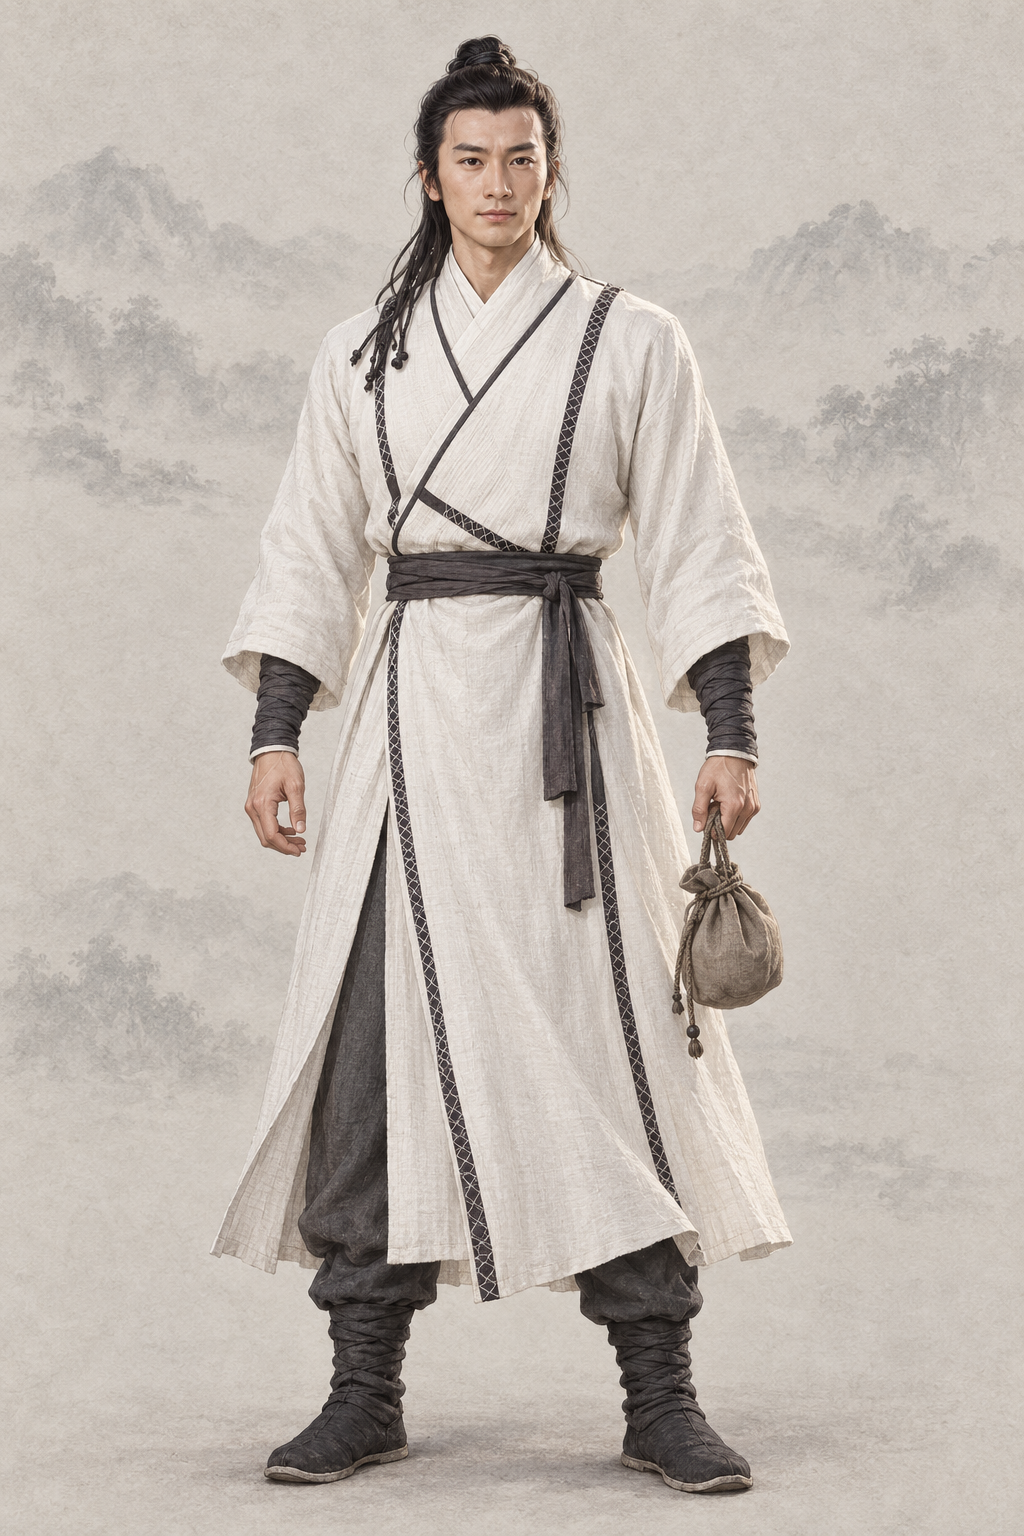
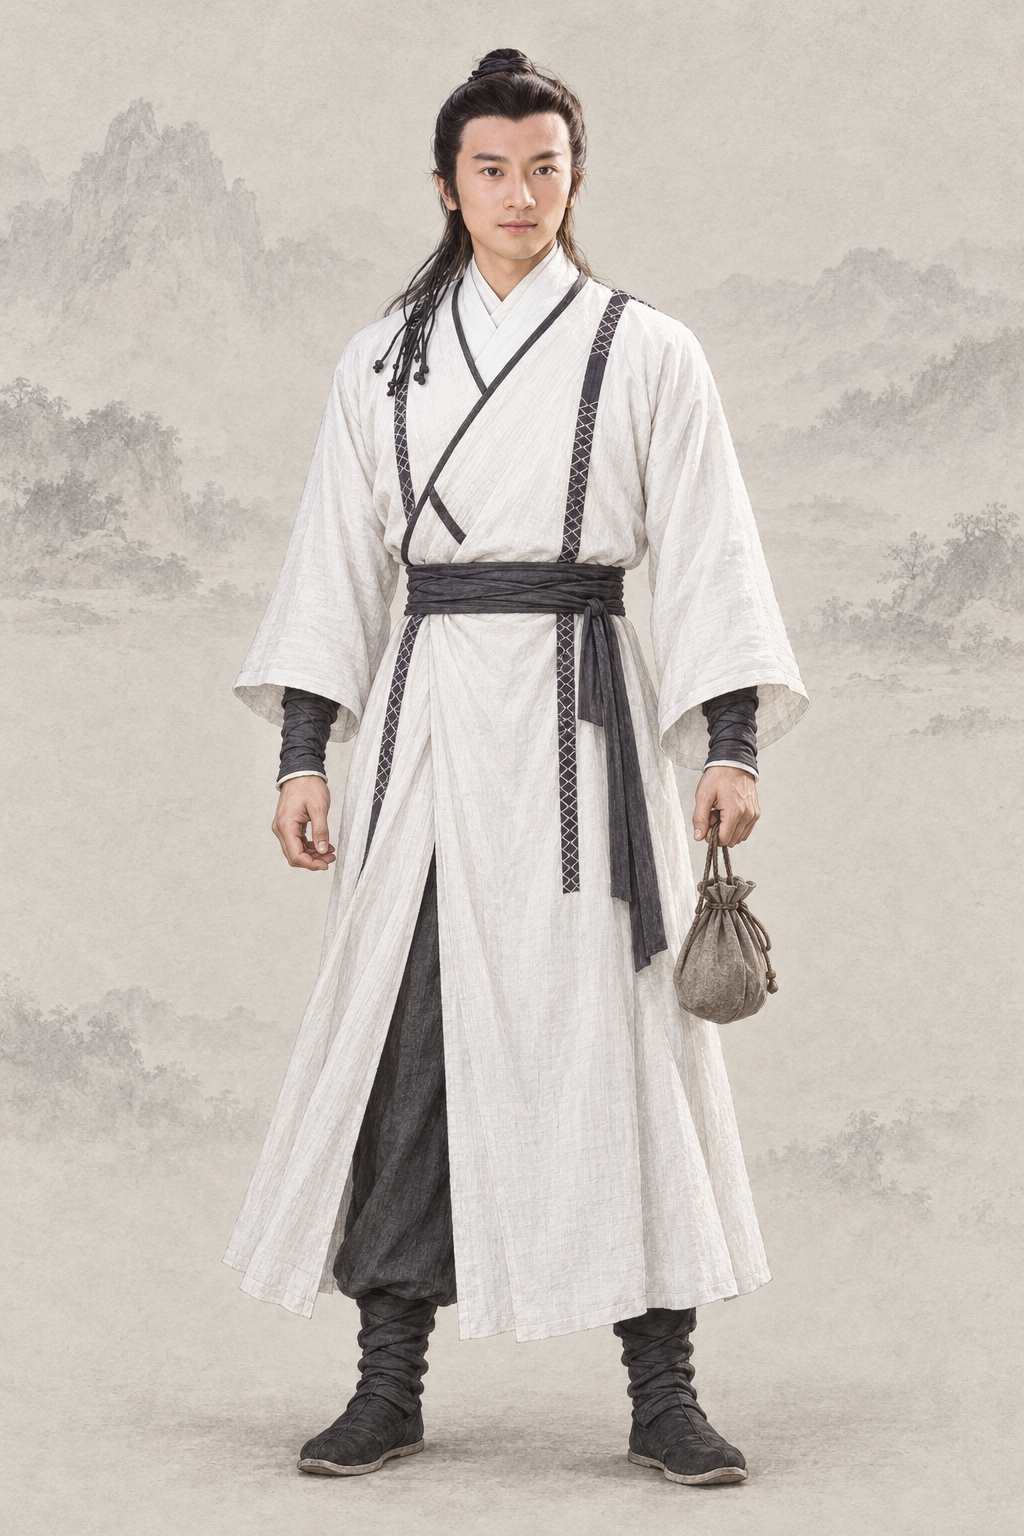
assets(character): 张无忌 base 换作者选定的第 2 轮 A 版（AR-44 / AR-49）
作者 13:24「张无忌现在有点丑，更像苏有朋一些，但保持魁梧」，第 2 轮加剧照脸部特写，脸改为清秀俊朗的鹅蛋脸、双眼皮大眼，宽肩厚背的身形保留；作者 13:47 选 A。第 1 轮图备份在 codex_w17/replaced/，提示词写回 npc_zhangwuji.md，第 1 轮段留作历史。

diff --git a/assets/default/prompts/characters/ch04-yitian/npc_zhangwuji.md b/assets/default/prompts/characters/ch04-yitian/npc_zhangwuji.md
@@ -14,6 +14,9 @@ references:
 - path: .agents/coord/imagegen-reference/identity-20261002/yitian/zhangwuji_2003_suyoupeng_tvsou.jpg
   use: 身份参考：2003《倚天屠龙记》 剧照（作者 10-03 指定版本）；只借造型、气质与五官神韵，按项目画风重画，不照搬照片
   sha256: 826ee499517df053dd5edc5b5b2519f8c74f67930ccf9e01b987df631c106636
+- path: .agents/coord/_handoff/gem/codex_w17/staging/stillface__zhangwuji.jpg
+  use: 剧照脸部特写：由上面这张剧照裁出放大（512×512），只为看清五官；同样只借神韵，按项目画风重画
+  sha256: e2719d7d920077c8c537fe246feda90e9df77104dc6d32d3d3b16c03f0e14b97
 - path: assets/default/baseline/character/male/ref_npc_linghuchong__ch05_base01.png
   use: 画风基线：项目同性别基线立绘，只取画风、用色、光线、质感和背景处理，不取长相（上传缩小版 JPEG）
   sha256: 3523d4d935ad8bb13db359ce72e73bc211ebdb3af5cb2a9806db346dca6df202
@@ -23,6 +26,7 @@ references:
 redo_reason: "作者 10-03 AR-44：参考2003《倚天屠龙记》造型重画 base，不要和照片一样"
 reference_upload:
 - /Users/bytedance/Projects/jinyongqunxia/.agents/wt/_prod/.agents/coord/_handoff/gem/codex_w17/staging/still__por_npc_zhangwuji__ch04_youth_jiaozhu_base__1.jpg
+- /Users/bytedance/Projects/jinyongqunxia/.agents/wt/_prod/.agents/coord/_handoff/gem/codex_w17/staging/stillface__zhangwuji.jpg
 - /Users/bytedance/Projects/jinyongqunxia/.agents/wt/_prod/.agents/coord/_handoff/gem/baseline_small/male__ref_npc_linghuchong__ch05_base01.jpg
 - /Users/bytedance/Projects/jinyongqunxia/.agents/wt/_prod/.agents/coord/_handoff/gem/baseline_small/male__ref_npc_xiaofeng__ch01_base01.jpg
 codex_prompt_rev: 2026-10-03
@@ -35,6 +39,26 @@ classic_ref:
 # 张无忌 · 人物写实修正
 
 ## Gemini 提示词
+
+> 2026-10-03 AR-44 新 base（10 号出图员，codex exec · image_gen）：作者要求参考2003《倚天屠龙记》造型、按项目画风重画、不要和照片一样；上传顺序：1 张剧照、1 张剧照脸部特写，最后两张为同性别画风基线（缩小版 JPEG）。上一版保留在下一节作历史。AR-44 / AR-49 第 2 轮，作者选 A。
+
+```text
+生成一张 2:3 竖幅全身人物立绘：单人、单一视角、完整全身——头顶、双手、双脚和手中器物的两端都在画面内，四周留出自然空白；人物站姿自然，身体基本朝向正面，头部端正（不歪头、不仰不俯），镜头平视。
+【参考图】第 1 张是该角色经典影视造型的剧照，第 2 张是同一张剧照的脸部特写。人物的脸要明显向剧照靠拢——脸型、眉形与眉眼间距、眼型与眼神、鼻梁、嘴型和神情都要像剧照里的这个角色，让看过这一版的观众一眼认出；发型、服饰、配色和气质也借鉴剧照。但必须重新绘制成项目的手绘插画画风：不要照片质感，不要照搬剧照的构图、光影、背景和姿势，不要做成照片修图或照片贴脸。最后两张是本项目画风基线：画风、用色、光线、质感和暖浅灰纸底加淡水墨背景以它们为准，但不取基线人物的长相。
+【画风】写实手绘古风人物插画，与本项目写实武侠角色立绘同一画风，像功力深厚的画师用细腻笔触画出的真实人物。手绘插画质感，不是 CG 渲染：不要过度光滑的皮肤、完美对称的五官、塑料高光、过度锐利的发丝；保留自然的笔触和细微不完美。皮肤有真实质感——细小毛孔、细纹、晒痕和自然的左右不对称，不磨皮、不油亮；头发是一缕缕自然的发丝和少量碎发；布料看得出经纬纹理、厚薄和自然垂坠的褶皱，带穿用过的轻微旧化，但完整不破烂；整体设色低饱和、沉稳；柔和的自然光从左上方照来，明暗过渡自然，不打舞台光、轮廓光或美颜柔光。不是照片，不是三维渲染，不是动漫或游戏 CG，也不是油画（没有厚涂笔触和画布纹理）。
+【背景】不透明的暖浅灰色纸底，只在远处有极淡的水墨远山和薄雾，大面积留白；人物与背景明暗分明、轮廓边缘干净完整（后续要自动抠图），水墨和纸纹只在背景里，不侵入人物和衣服；脚下只有很淡的一点接触阴影。
+【人物】张无忌，《倚天屠龙记》元末的主角；九阳神功大成、接任明教教主之后。宅心仁厚、温和坚毅，医术高明。
+【年龄与体态】约二十二三岁的成年男子，身材高大、肩宽背厚、胸膛厚实、手臂结实——九阳神功大成的健壮体魄，体格明显比书生魁梧，宽肩窄腰、站得稳；肩宽约为头宽的三倍，脖颈结实，前臂粗壮；白袍合身，能看出宽肩厚背的轮廓。但不是夸张的健美肌肉，衣服穿得整齐，不袒胸。绝不清瘦单薄。
+【面容（要像剧照里的张无忌）】清秀俊朗：端正的鹅蛋脸，下巴圆润不尖，脸颊线条柔和干净，不要长脸、不要高颧骨、不要粗犷；浓黑整齐的眉毛，平直略带弧度；一双明亮的大眼睛、双眼皮清楚，眼神温和清澈、带一点笑意；鼻梁挺直、鼻头圆润；唇形端正、嘴角平和；肤色白净健康。温润如玉的书卷气，眉宇间又有英气。
+【发式】额前头发向后梳、露出饱满的额头，头顶束一个小发髻，其余长发披在肩后，一侧鬓边垂着几缕编成细辫、末端缀小木珠的发绳。
+【服饰】一身白色交领右衽长袍，衣襟边缘和两肩到前身有深色编织纹的窄镶边，腰束深色腰带，深色长裤、布靴；整体干净利落。
+【手与道具】左手提一只朴素的布药囊，右手自然放松垂在身侧；不拿屠龙刀、倚天剑或圣火令。
+【姿态】站姿稳重、肩背舒展，身体基本朝向正面，头部端正，目光平视，透出教主的沉稳气度。
+【不要】画面里不要任何文字、题款、印章、签名、水印、边框、分格或多视图；不要第二个人；不要幼态（童颜、娃娃脸、婴儿肥、儿童或少年身材、大头小身）；不要塑料感皮肤、磨皮美颜、网红脸（尖下巴大眼高鼻的模板脸）、过度对称、浓妆、偶像式打光、蜡像感；不要照片质感，不要像剧照照片、照片修图或拼贴，不要照搬剧照的背景、光影、构图和姿势；不要三维渲染或动漫大眼；不要歪头、斜镜头；不要多指、缺指（设定的伤残除外）、手与器物粘连或悬空；衣襟必须右衽（穿着者的左襟压在右襟上），不要左衽（设定为少数民族服制的除外），不要水平镜像；不要现代物品、发光特效、法阵或能量光。不要清瘦单薄、溜肩窄胸、少年身板；不要夸张的健美肌肉、袒胸露臂；不要金甲皇袍。
+【画风基线】随提示词上传的参考图里，最后两张是本项目的立绘画风基线：只参考它们的画风、用色、光线、质感和暖浅灰纸底加淡水墨的背景处理，整体画风必须与它们一致——精细写实的数字手绘插画，不是油画，不要厚涂笔触和画布纹理。基线图只取画风，不取长相：不要照搬基线图里人物的长相、年龄、发型、服饰和姿势。
+```
+
+## AR-44 第 1 轮 Gemini 提示词（作者 13:24 说偏丑、要更像 2003 版，历史，不再用于出图）
 
 > 2026-10-03 AR-44 新 base（10 号出图员，codex exec · image_gen）：作者要求参考2003《倚天屠龙记》造型、按项目画风重画、不要和照片一样；上传顺序：剧照 1 张，最后两张为同性别画风基线（缩小版 JPEG）。上一版保留在下一节作历史。
 
